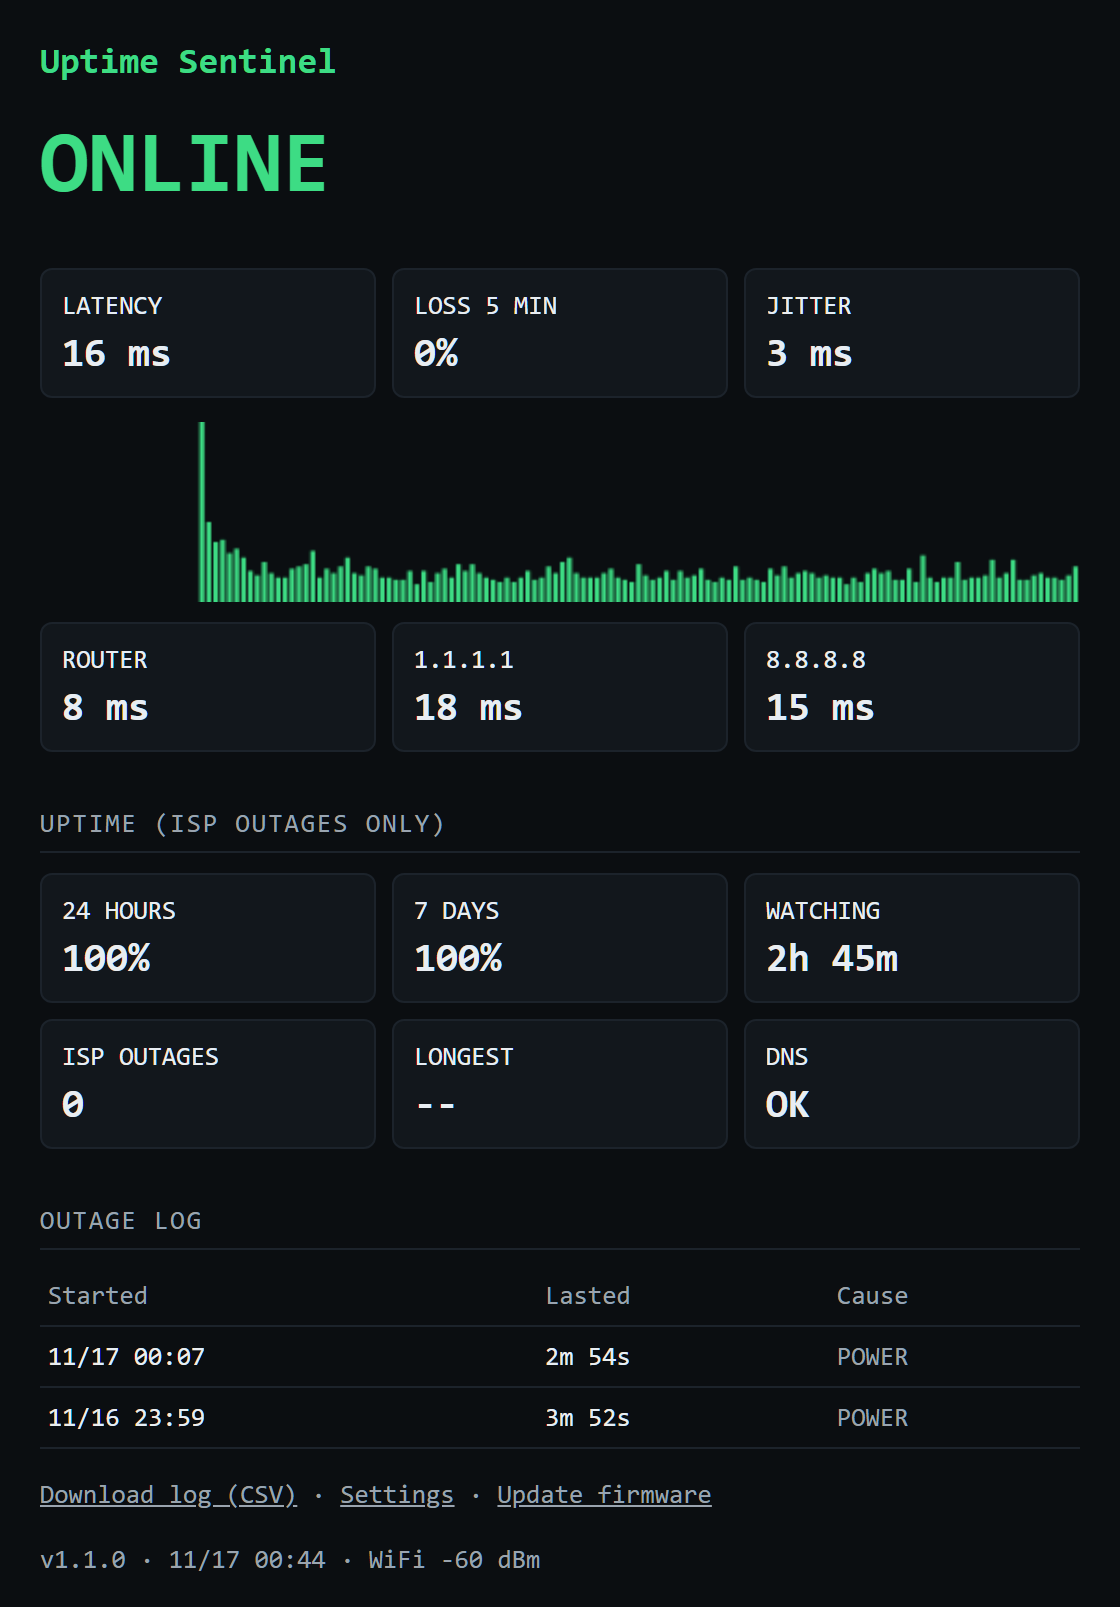
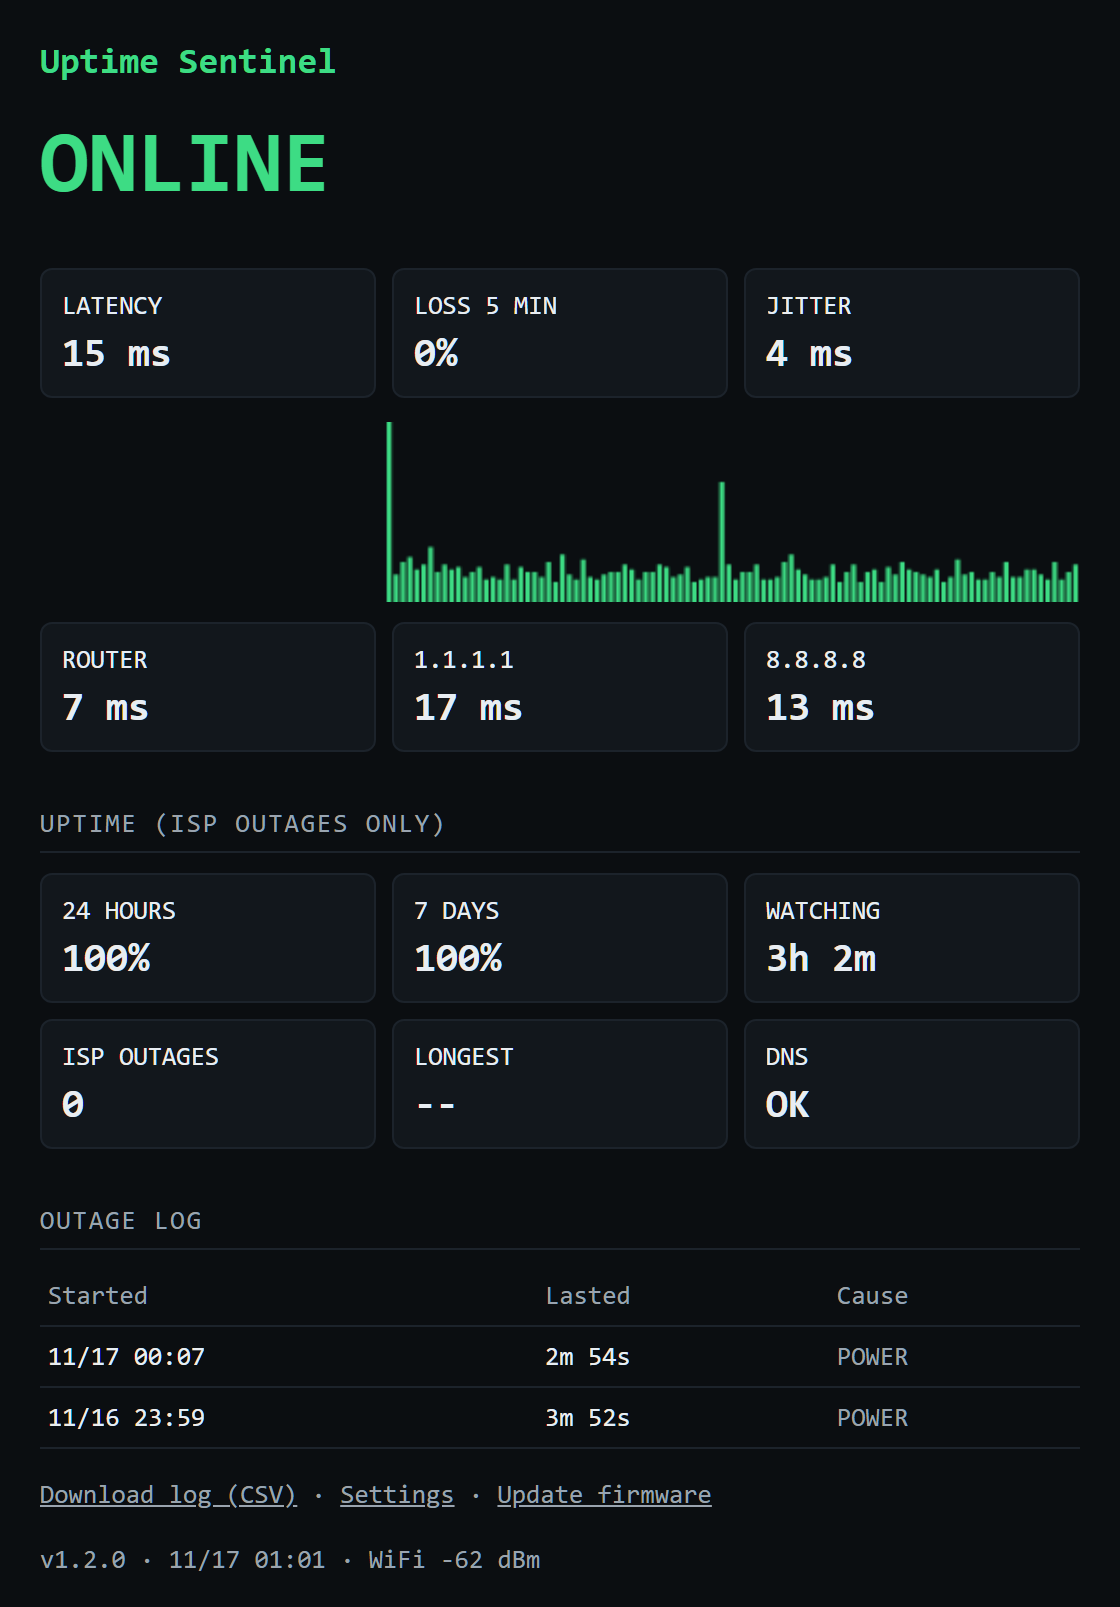
Bump version to 1.2.0 and refresh the README pictures

diff --git a/src/config.h b/src/config.h
@@ -39,7 +39,7 @@ constexpr char RELEASES_URL[] = "https://github.com/TradeSolana/uptime-sentinel/
 #endif
 constexpr char BOARD[] = BOARD_ENV;
 constexpr char BOARD_MARKER[] = "UPTIME-SENTINEL-BOARD:" BOARD_ENV ";";
-constexpr char VERSION[] = "1.1.0";
+constexpr char VERSION[] = "1.2.0";
 }  // namespace cfg
 
 constexpr uint16_t rgb565(uint8_t r, uint8_t g, uint8_t b) {
